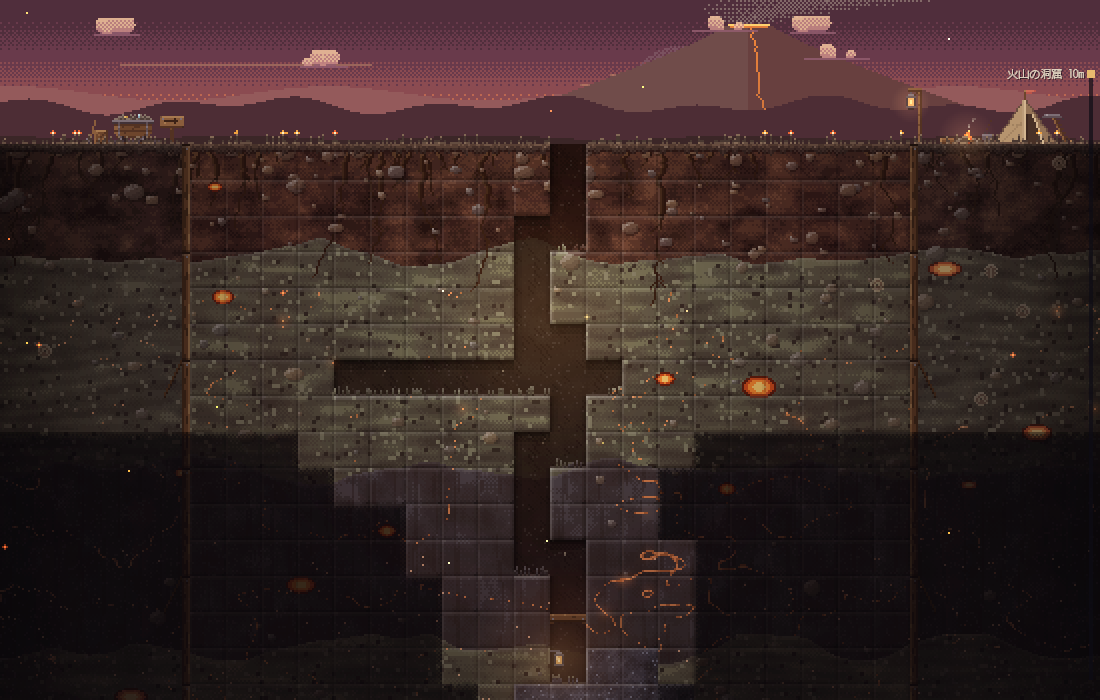
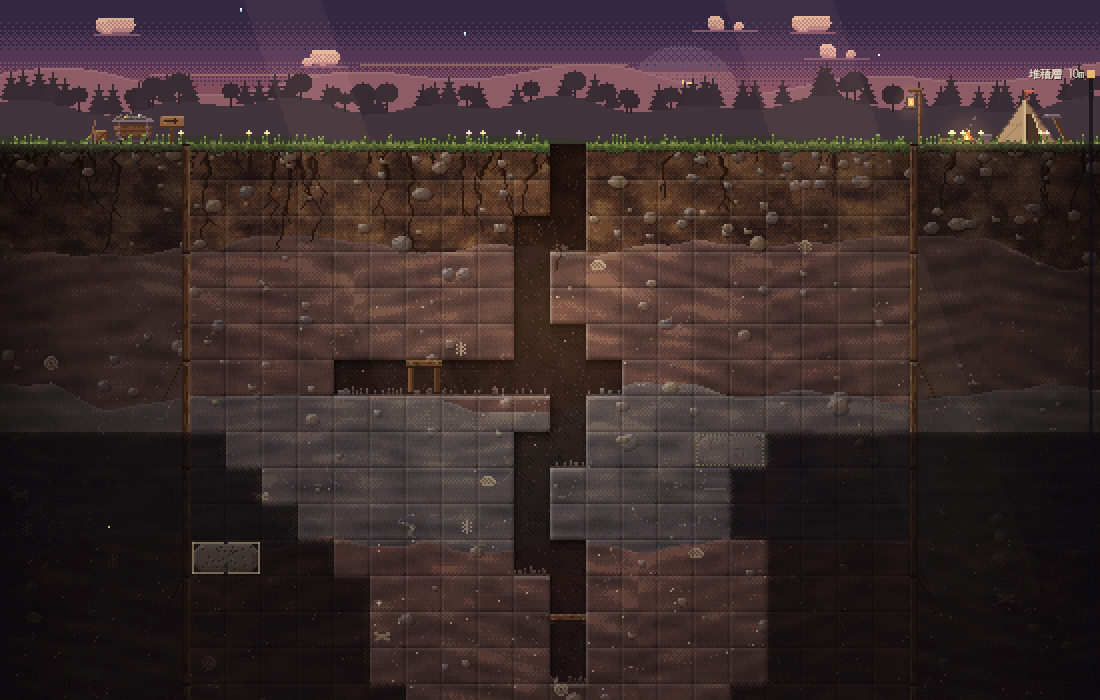
0.3.0 に合わせて更新

diff --git a/index.html b/index.html
@@ -87,19 +87,15 @@ footer { color: var(--dim); font-size: 13px; text-align: center; padding: 40px 0
     <h2>どんなゲーム？</h2>
     <div class="feature">
       <img src="img/wall.png" alt="宝石が生えた岩">
-      <p>工房の真ん中に浮かぶ岩に、勝手に結晶が生えてきます。指（マウス）でなぞれば収穫。岩の種類や温度、湿り気、しみこませた鉱液、置いた設備で生えるものが変わります。図鑑は560種ちょっと。「？」を埋めていくのが基本の遊びです。</p>
+      <p>工房の真ん中に浮かぶ岩に、勝手に結晶が生えてきます。育ちきったものだけを、なぞってまとめて収穫。岩の種類や温度、湿り気、置いた施設で生えるものが変わります。図鑑は560種ちょっと。</p>
     </div>
     <div class="feature">
-      <img src="img/cleaning.png" alt="岩からルビーを掘り出しているところ">
-      <p>初めて見つけた石は、正体の分からない原石で届きます。ハンマーでざっくり割って、ドリルで寄せて、最後は刷毛で払う。だんだん中身が見えてくるのがいちばん楽しいところです。収穫していると中身の分からない塊もときどき混ざるので、何が出るかはお楽しみ。</p>
+      <img src="img/dig.png" alt="発掘場">
+      <p>少し進むと発掘場へ。地面を掘っていくと、ときどき光る場所に当たります。</p>
     </div>
     <div class="feature">
-      <img src="img/seep.png" alt="鉱液がしみた岩">
-      <p>鉄、銅、ベリリウム……岩に鉱液をしみこませると、生えてくる宝石の顔ぶれが変わります。気に入った結晶は鍵をかけて残しておけて、その隣にしか芽吹かない石もあります。</p>
-    </div>
-    <div class="feature">
-      <img src="img/dig.png" alt="火山のふもとの発掘場">
-      <p>少し潜ると発掘場に行けるようになります。地層を掘って、壁では育たない石や化石まじりの塊を探しに。</p>
+      <img src="img/cleaning.png" alt="岩の中から宝石や化石を掘り出しているところ">
+      <p>光る場所を掘り当てたら、その場でクリーニング。岩の中には宝石や化石、遺物がいくつも埋まっています。光りや音を手がかりに、ハンマーでざっくり、ドリルで寄せて、刷毛で払う。深い所の岩は硬いので、道具を鍛えておくこと。</p>
     </div>
     <div class="feature">
       <img src="img/deep.png" alt="深い層の工房">
